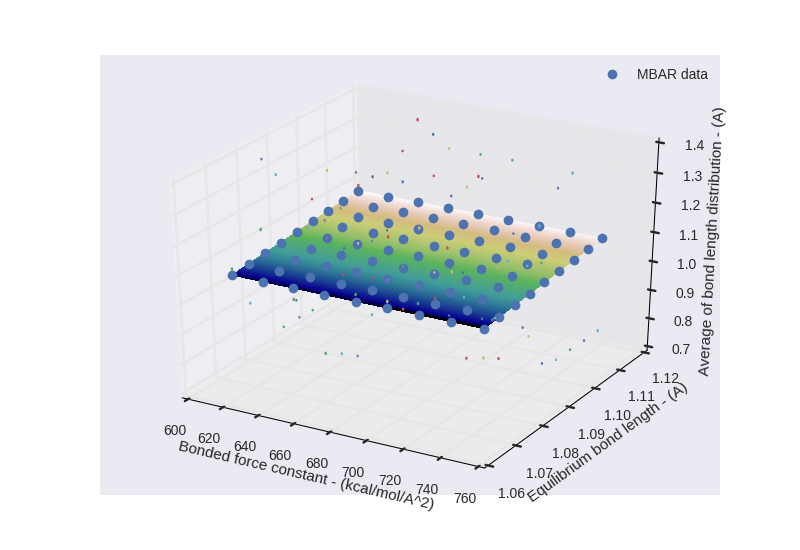
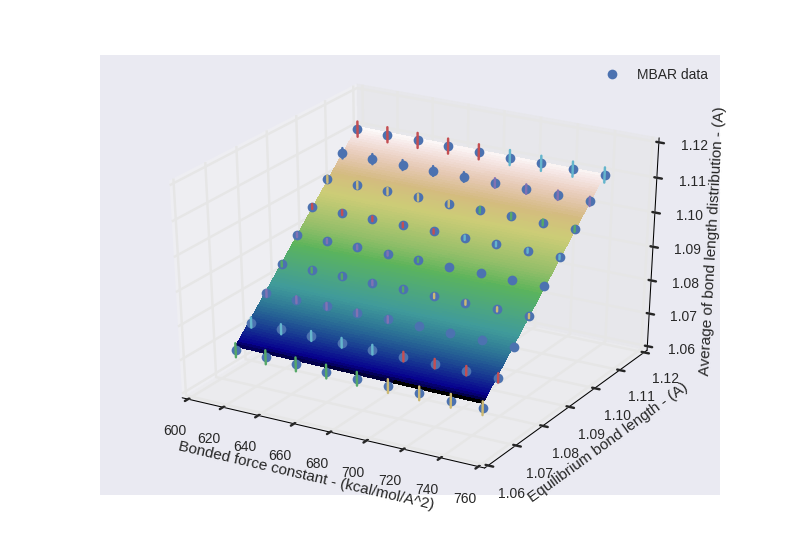
MBAR error bars

diff --git a/single-molecule-property-generation/graph_bl.py b/single-molecule-property-generation/graph_bl.py
@@ -160,7 +160,7 @@ ax.plot3D(x_avm,y_avm,z_avm,"o",label="MBAR data")
 #ax.set_zlim([z_avm.min(),z_avm.max()])
 ax.legend()
 for i in np.arange(0, len(x_avm)):
-    ax.plot([x_avm[i],x_avm[i]], [y_avm[i],y_avm[i]], [z_av[i]-z_av_uncm[i], z_av[i]+z_av_uncm[i]], marker="_")
+    ax.plot([x_avm[i],x_avm[i]], [y_avm[i],y_avm[i]], [z_avm[i]-z_av_uncm[i], z_avm[i]+z_av_uncm[i]], marker="_")
 """
 xx_arr = np.vstack(xx.flatten()).T[0]
 yy_arr = np.vstack(yy.flatten()).T[0]
@@ -241,7 +241,7 @@ ax.plot3D(x_varm, y_varm, z_varm, "o",label='MBAR data')
 ax.legend()
 
 for i in np.arange(0, len(x_varm)):
-    ax.plot([x_varm[i],x_varm[i]], [y_varm[i],y_varm[i]], [z_varm[i]-z_var_uncm[i], z_var[i]+z_var_uncm[i]], marker="_")
+    ax.plot([x_varm[i],x_varm[i]], [y_varm[i],y_varm[i]], [z_varm[i]-z_var_uncm[i], z_varm[i]+z_var_uncm[i]], marker="_")
 
 #for i in np.arange(0, len(xx_arr)):
 #    ax.plot([xx_arr[i],xx_arr[i]], [yy_arr[i],yy_arr[i]], zs=[zz_var_comp_arr[i]-zz_var_unc_arr[i],zz_var_comp_arr[i]+zz_var_unc_arr[i]],marker="_")
